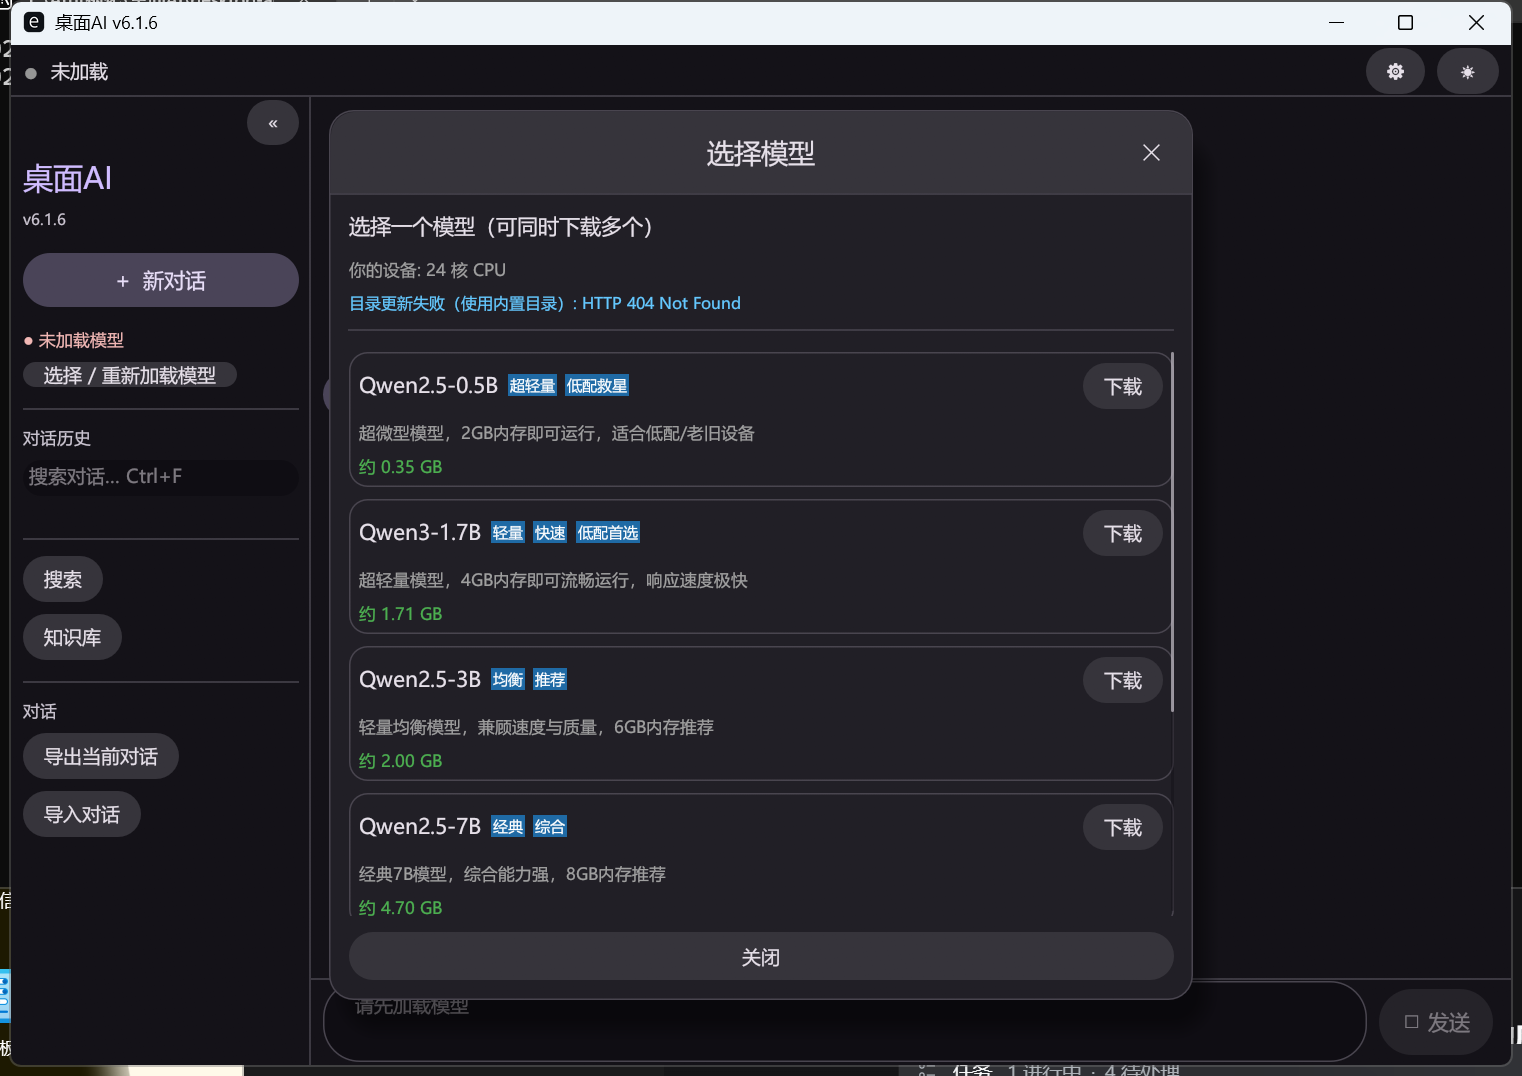
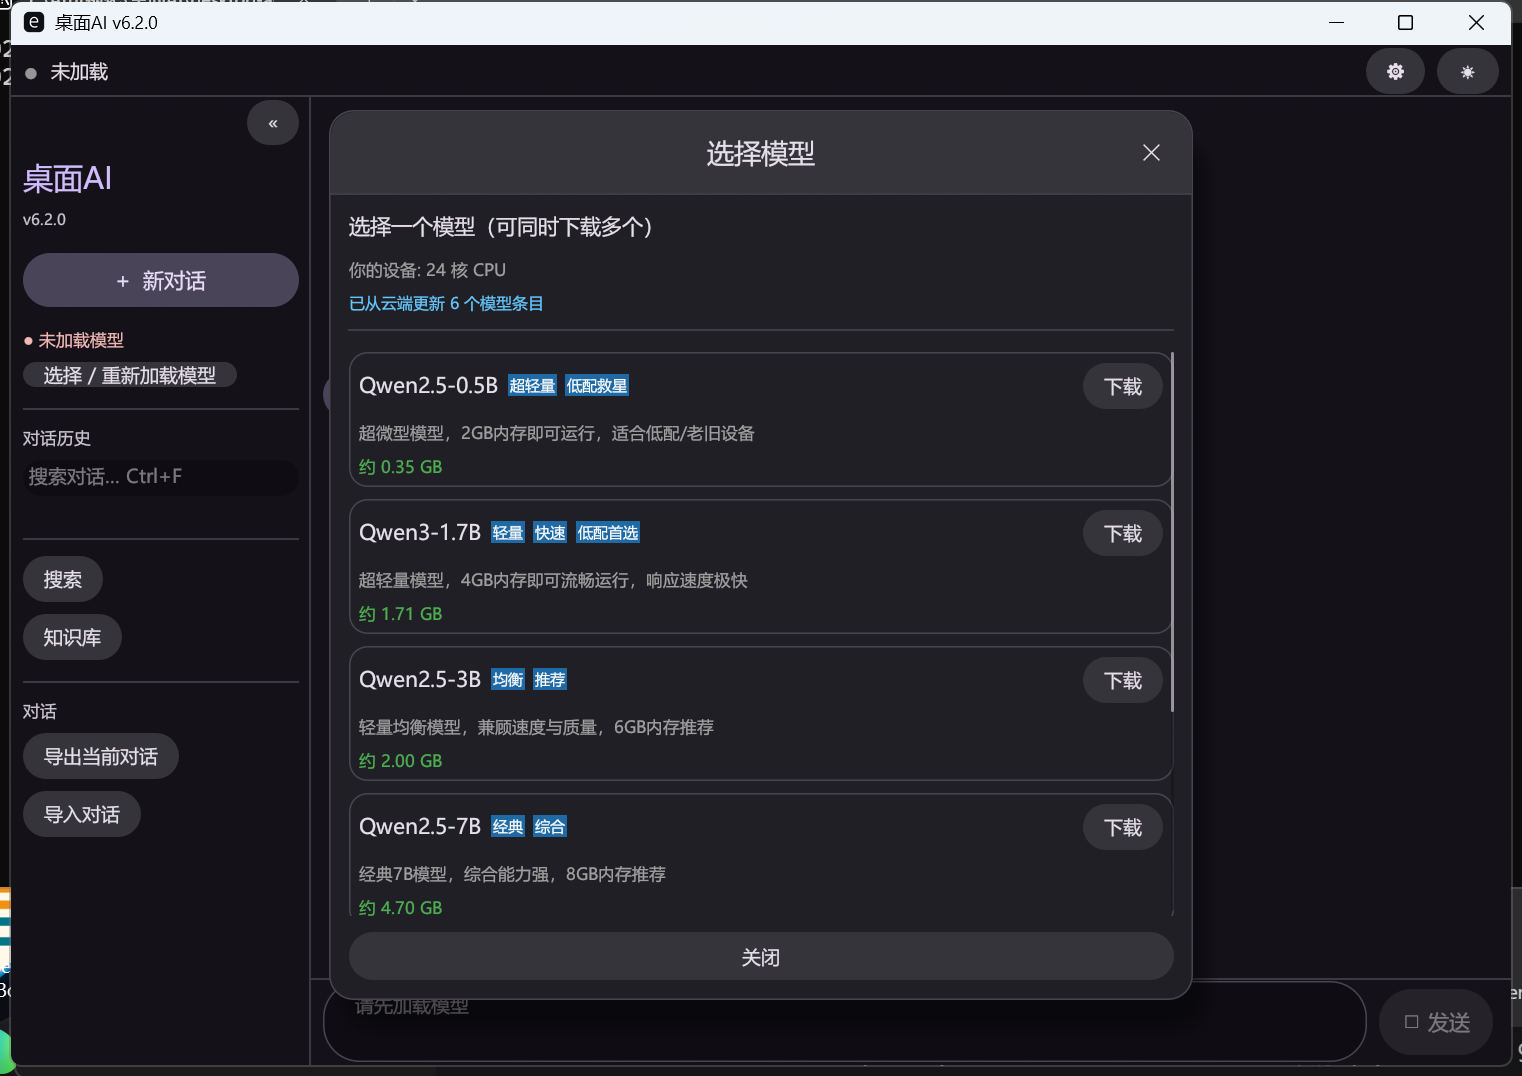
release: v6.2.0
- bump version 6.1.6 -> 6.2.0 (Cargo.toml + lock)
- CHANGELOG [6.2.0]: RAG 三件、安全加固轮次、UI 改进、文档重写
- fix clippy::needless_bool (crawler.rs, Rust 1.100 工具链)
- 重截模型选择图：远程目录拉取成功（404 已修复）

Changed region(s): [[0.5867, 0.9201, 1.0, 1.0], [0.0, 0.8281, 0.1853, 1.0], [0.2162, 0.276, 0.4941, 0.3067]]

diff --git a/desktop-ai/src/rag/crawler.rs b/desktop-ai/src/rag/crawler.rs
@@ -63,10 +63,7 @@ fn is_file(src: &str) -> bool {
         return true;
     }
     let p = PathBuf::from(src);
-    if p.is_absolute() && p.exists() {
-        return true;
-    }
-    false
+    p.is_absolute() && p.exists()
 }
 
 /// 去掉 `file://` / `file:` 前缀返回裸路径；无前缀则原样返回。

diff --git a/CHANGELOG.md b/CHANGELOG.md
@@ -3,12 +3,35 @@
 本项目遵循 [Keep a Changelog](https://keepachangelog.com/zh-CN/1.1.0/) 格式，
 版本号遵循语义化版本。最新版本号以 `desktop-ai/Cargo.toml` 为准。
 
-## [Unreleased]
+## [6.2.0] — 2026-11-15
 
 ### 新增
 - RAG 知识库文档来源元数据（粘贴 / 文件 / 抓取 + 原始 URL），schema v2 自动迁移，检索结果与引用处展示来源徽标
 - RAG 混合检索：向量语义 + FTS5 关键词双路召回，RRF 融合去重（设置中可开关，默认开）
 - RAG 规则化查询重写：短问题指代消解，自动结合上一轮提问检索（仅影响检索，不改原文；可开关，默认开）
+- RAG prompt token 预算与历史截断，生成参数可配置
+- 回答下方展示检索来源；KB 管线迁移至 rag 模块
+- UI：侧边栏状态持久化、toast 通知、自适应气泡、Esc 停止生成
+- 动态模型目录 + 真虚拟滚动；代码块复制按钮
+- cargo-fuzz 落地：8 个纯解析器 fuzz 目标
+- 全模块简体中文注释
+
+### 安全
+- RAG 不可信上下文围栏；robots 策略与 crawler 钉扎加固（第 3 轮）
+- API 面、下载、KB 输入加固（第 2 轮）；搜索响应大小上限与重定向逐跳校验（第 1 轮）
+- 检索分数诚实化；`/ready` 不再暴露模型名；CLI token 随机化
+- WAL 持久性、会话 id 碰撞、下载暂存等多项加固
+- FTS 重建孤儿感知与删除一致性修复
+
+### 修复
+- 修复远程模型目录 404：仓库根新增 `model_catalog.json`，客户端可拉取远程目录
+- 修复 `clippy::needless_bool`（Rust 1.100 工具链）
+
+### 文档
+- 根 README 重写为落地页（徽章、应用截图、三分钟上手）
+- desktop-ai/README 重写精简：删除法律章节，更新 RAG 新特性与测试数（254）
+- 新增应用截图 3 张（`assets/screenshots/`）
+- 评估报告类文档移出仓库（`docs/` 已加入 .gitignore）
 
 ## [6.1.6] — 2026-10
 
